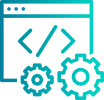
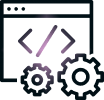
feat: style new home

diff --git a/src/scss/pages/home.scss b/src/scss/pages/home.scss
@@ -1,30 +1,27 @@
-.app {
-  height: auto;
-  background-color: var(--background);
-  overflow-x: hidden;
-
-  .home-container {
+.home-container {
     display: flex;
     height: auto;
-    align-items: center;
-    padding: 2rem;
-
+    width: 100%;
+    justify-content: center;
+    background-color: var(--primary);
+    padding-top: 1rem;
     .infos-home-container {
       display: flex;
       justify-content: center;
       flex-direction: column;
-      padding-left: 2rem;
-      width: 50%;
-    
+      padding-left: 3.3rem;
+      width:50%;
+      position: relative;
+      
       .pointes{
-        color: var(--primary-color);
+        color: var(--color1);
         font-size: 8rem
-    }
+      }
       h1 {
-        @include text-style(3.4rem, 500, var(--text-color), auto);
+        @include text-style(3rem, 500, var(--text-light), auto);
       }
       h2 {
-        @include text-style(2rem, 300, var(--text-color), auto);
+        @include text-style(2rem, 300, var(--text-light), auto);
       }
       .icons-home {
         margin-top: 2rem;
@@ -33,17 +30,19 @@
           height: auto;
           margin-right: 1rem;
           font-size: 1.5em;
-          background-color: var(--reserve-color1);
-          border-radius: var(--border-radius);
-          padding: 0.6rem;
-          color: var(--primary-color);
+          background-color: var(--color1);
+          border-radius: 25px;
+          padding: 1rem;
+          color: var(--white);
         }
       }
     }
     .image-home-container {
+      width: 70%;
+      display: flex;
       img {
-        width: 100%;
+        zoom: 1;
       }
     }
   }
-}
+

diff --git a/src/scss/components/navbar.scss b/src/scss/components/navbar.scss
@@ -1,42 +1,41 @@
 header {
-  background-color: var(--background);
+  background-color: none;
+  position: absolute;
   display: flex;
-  justify-content:center;
+  justify-content: space-between;
   text-align: center;
   align-items: center;
   height: auto;
-  padding: 4rem;
-
-  width: 100vw;
+  padding: 2rem;
+  margin: 2rem;
+  width: 100%;
 
 
   ul {
     display: flex;
-    justify-content: end;
-    padding-left: 20rem;
+    margin-left: 15rem;
     li {
       text-align: center;
       padding: 0 1.8rem;
       text-decoration: none;
       list-style: none;
-    @include text-style(1.2rem, 500, var(--text-color),100%);
+    @include text-style(1.2rem, 300,var(--text-light),100%);
+    border-bottom: 1px solid transparent;
     &:hover{
-      border-bottom: 1px solid var(--primary-color);
-      color: var(--primary-color);
-      scale: 0.9;
+      color: var(--color2);
       transition: 1s ease;
     }
     }
   }
-  .button-blog{
-    @include button-style(10rem, 2.5rem, 1rem, var(--text-light), var(--secondary-color));
+  .button-nav{
+    @include button-style(12rem, 3.5rem, 1rem, var(--text-light), var(--green));
     border: none;
-    border-radius: var(--border-radius);
+    border-radius: 10px;
+    margin-right: 5rem;
     cursor: pointer;
     &:hover{
-      border: 1px solid var(--primary-color);
-      color: var(--primary-color);
-      background-color: transparent;
+      background-color: var(--color2) ;
+      color: var(--primary);
       transition: 1s ease;
     }
   } 

diff --git a/src/scss/components/tagsInfos.scss b/src/scss/components/tagsInfos.scss
@@ -10,15 +10,14 @@
       align-items: center;
       justify-content: center;
       text-align: center;
-      background-color: var(--reserve-color1);
-      border: 1px solid var(--primary-color);
+      background-color: var(--primary);
+      border: transparent;
       margin: 1rem;
       font-size: 1.2rem;
       color: var(--text-light);
-      width: auto;
-      height: auto;
       padding: 0.6rem 1rem;
-      border-radius: var(--border-radius);
+      border-radius: 5px;
+  
     }
   }
   .infos {
@@ -27,30 +26,28 @@
     justify-content: center;
     align-items: center;
     margin: 0 auto;
-    border: 1px solid #263238a7;
     border-radius: var(--border-radius);
     background-color: white;
     span {
       display: flex;
       flex-direction: column;
       align-items: center;
-      text-align: center;
       margin: 1.4rem;
-
+      width: 30%;
       img {
         height: auto;
         width: auto;
         padding: 1rem;
-        margin: 0 auto;
+        align-items: flex-start
       }
       h1 {
         @include text-style(1.8rem, 600, var(--text-color), 100%);
-        padding: 0.9rem
+        margin: 1rem;
+        text-align: center
       }
       p {
-        @include text-style(1rem, 400, var(--text-color), auto);
-        text-align: justify;
-        margin: 0 2rem;
+        @include text-style(1rem, 400, var(--text-color),100%);
+        text-align:center;
       }
     }
   }

diff --git a/src/components/home/TagsInfos.jsx b/src/components/home/TagsInfos.jsx
@@ -27,16 +27,16 @@ export default function TagsInfos() {
     <div className="tagsInfos">
       <span className="tags">
         <div>
-          <FaCode style={{ marginRight: "5px" }} />
-          Desenvolvedora
+          <FaCode style={{ marginRight: "5px"}} />
+          <p>Desenvolvedora</p>
         </div>
         <div>
           <MdOutlineDesignServices style={{ marginRight: "5px" }} />
-          UX Design
+          <p>UX Design</p>
         </div>
         <div>
           <PiStudentBold style={{ marginRight: "5px" }} />
-          Pesquisadora na Área de Biotecnologia
+          <p>Pesquisadora na Área de Biotecnologia</p>
         </div>
       </span>
 

diff --git a/src/scss/utils/variables.scss b/src/scss/utils/variables.scss
@@ -1,21 +1,24 @@
 :root{
-/* --background : #263238; */
+
+--primary: #000F15;
+--secondary: #F5F7F9; 
+--text-dark: #263238;
+--contrast: #384E57;
+--color1 : #8D0680;
+--color2: #B889B7;
+--white: #ffffff ;
+--text-light: #cdc4c4;
+--green: #0F7606;
+
+
 --primary-color: #41C6FF;
 --background:  #F5F7F9;
 --secondary-color: #005058;
---emphasis: rgb(255, 43, 96);
 --text-color: #263238 ;
 --text-light: #F5F7F9;
 --reserve-color1: #263238;
-/* --text-color: #FFF; */
+
 --gray: #5E5E5E;
 --gratwo: #F5F7F9;
---border-radius: 10px;
-}
-
-
-[data-theme="light"] {
-    --background: #FFF;
-    --text-color: #263238 ;
 
 }

diff --git a/src/components/Navbar.jsx b/src/components/Navbar.jsx
@@ -1,6 +1,6 @@
 import { Link } from "react-router-dom";
 
-import Logo from "../assets/image/WLogo.png";
+import Logo from "../assets/image/LogoLight.png";
 
 export default function Navbar() {
   return (
@@ -23,7 +23,7 @@ export default function Navbar() {
             <li>Contato</li>
           </Link>
         </ul>
-        <button className="button-blog">Blog</button>
+        <button className="button-nav">Entrar em contato</button>
       </header>
     </>
   );

diff --git a/index.html b/index.html
@@ -4,7 +4,7 @@
     <meta charset="UTF-8" />
     <link rel="icon" type="image/svg+xml" href="/vite.svg" />
     <meta name="viewport" content="width=device-width, initial-scale=1.0" />
-    <title>Vite + React</title>
+    <title>Natalia Reis - Developer</title>
   </head>
   <body>
     <div id="root"></div>

diff --git a/src/pages/Home.jsx b/src/pages/Home.jsx
@@ -7,7 +7,7 @@ import {
 } from "react-icons/si";
 import { Link } from "react-router-dom";
 
-import ImageHome from "../assets/image/image-home.png";
+import ImageHome from "../assets/image/image-home (2).png";
 import TagsInfos from "../components/home/TagsInfos";
 
 export default function Home() {

diff --git a/src/scss/utils/global.scss b/src/scss/utils/global.scss
@@ -7,6 +7,10 @@
     font-family: 'Poppins', sans-serif;
     text-decoration: none;
     overflow-x: hidden;
+
+}
+body{
+    background-color: var(--secondary);
 }
 
 html{
